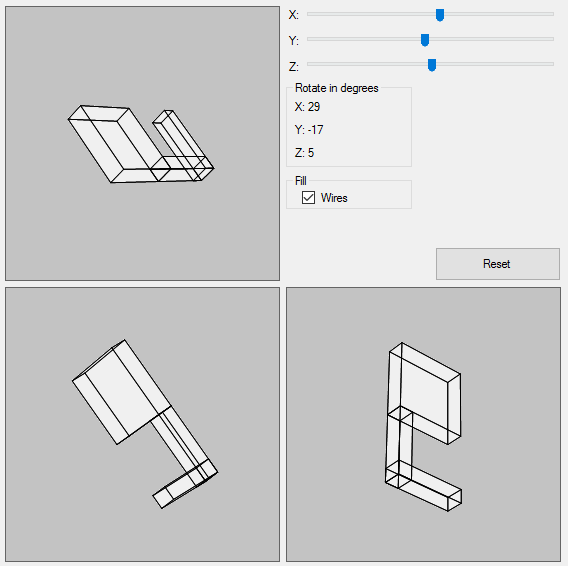
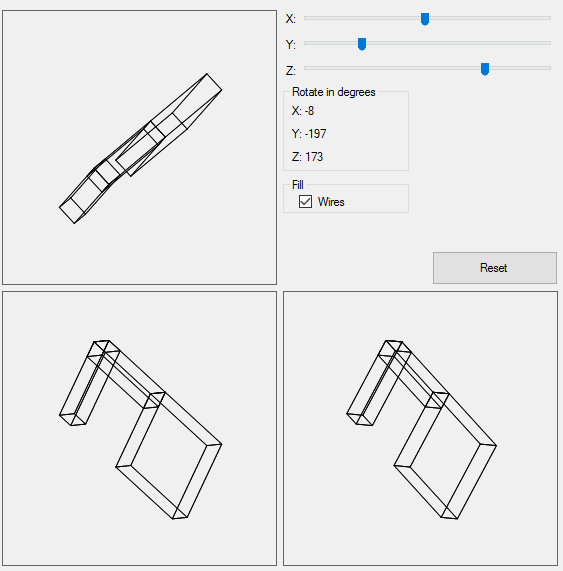
lab8 v1.8 update result

diff --git a/lab8/3DCube/Math3D.cs b/lab8/3DCube/Math3D.cs
@@ -154,7 +154,7 @@ namespace lab8
             private readonly Vector3D _cubeOrigin;
 
             private Face[] _faces;
-
+            private int window;
             private float _xRotation;
             private float _yRotation;
             private float _zRotation;
@@ -218,7 +218,7 @@ namespace lab8
                 bounds.Width += drawOrigin.X;
                 bounds.Height += drawOrigin.Y;
 
-                // Bitmap finalBmp = new Bitmap(bounds.Width, bounds.Height);
+              
                 var g = Graphics.FromImage(finalBmp);
 
                 g.SmoothingMode = SmoothingMode.AntiAlias;
@@ -279,7 +279,7 @@ namespace lab8
                 bounds.Width += drawOrigin.X;
                 bounds.Height += drawOrigin.Y;
 
-                var finalBmp = new Bitmap(bounds.Width, bounds.Height);
+                var finalBmp = new Bitmap(bounds.Width+10, bounds.Height+10);
                 var g = Graphics.FromImage(finalBmp);
 
                 g.SmoothingMode = SmoothingMode.AntiAlias;
@@ -323,6 +323,7 @@ namespace lab8
                         g.DrawLine(Pens.Black, _faces[i].Corners2D[2], _faces[i].Corners2D[3]);
                         g.DrawLine(Pens.Black, _faces[i].Corners2D[3], _faces[i].Corners2D[0]);
                     }
+                   
                 }
 
                 g.Dispose();
@@ -341,14 +342,14 @@ namespace lab8
             {
                 var returnPoint = new PointF();
 
-                var zoom = Screen.PrimaryScreen.Bounds.Width/1.5f;
+                var zoom = Screen.PrimaryScreen.Bounds.Width/1;
                 var tempCam = new Camera();
 
                 tempCam.Position.X = _cubeOrigin.X;
                 tempCam.Position.Y = _cubeOrigin.Y;
                 tempCam.Position.Z = _cubeOrigin.X*zoom/_cubeOrigin.X;
 
-                var zValue = -vec.Z - tempCam.Position.Z;
+                var zValue =/* -vec.Z*/ - tempCam.Position.Z;
 
                 returnPoint.X = (tempCam.Position.X - vec.X)/zValue*zoom;
                 returnPoint.Y = (tempCam.Position.Y - vec.Y)/zValue*zoom;
@@ -614,41 +615,45 @@ namespace lab8
 
             #region Initializers
 
-            public Cube(int side)
+            public Cube(int side, int window)
             {
                 Width = side;
+                this.window = window;
                 Height = side;
                 Depth = side;
                 _cubeOrigin = new Vector3D(Width/2, Height/2, Depth/2);
                 InitializeCube();
             }
 
-            public Cube(int side, Vector3D origin)
+            public Cube(int side, Vector3D origin, int window)
             {
                 Width = side;
                 Height = side;
                 Depth = side;
                 _cubeOrigin = origin;
+                this.window = window;
 
                 InitializeCube();
             }
 
-            public Cube(int width, int height, int depth)
+            public Cube(int width, int height, int depth, int window)
             {
                 Width = width;
                 Height = height;
                 Depth = depth;
+                this.window = window;
                 _cubeOrigin = new Vector3D(Width/2, Height/2, Depth/2);
 
                 InitializeCube();
             }
 
-            public Cube(int width, int height, int depth, Vector3D origin)
+            public Cube(int width, int height, int depth, Vector3D origin, int window)
             {
                 Width = width;
                 Height = height;
                 Depth = depth;
                 _cubeOrigin = origin;
+                this.window = window;
 
                 InitializeCube();
             }

diff --git a/lab8/3DCube/Form.cs b/lab8/3DCube/Form.cs
@@ -214,17 +214,17 @@ namespace lab8
         {
             _drawOrigin3 = _drawOrigin2 = _drawOrigin = new Point(pictureBox1.Width/2, pictureBox1.Height/2);
 
-            _mainCube1 = new Math3D.Cube(w, h/2, d, new Math3D.Vector3D(w/2, 0, d/2));
-            _mainCube12 = new Math3D.Cube(w/5, h/2, d, new Math3D.Vector3D(w/2, h/2, d/2));
-            _mainCube13 = new Math3D.Cube(w, h/10, d, new Math3D.Vector3D(w/2, h/2, d/2));
+            _mainCube1 = new Math3D.Cube(w, h/2, d, new Math3D.Vector3D(w/2, 0, d/2),1);
+            _mainCube12 = new Math3D.Cube(w/5, h/2, d, new Math3D.Vector3D(w/2, h/2, d/2),1);
+            _mainCube13 = new Math3D.Cube(w, h/10, d, new Math3D.Vector3D(w/2, h/2, d/2),1);
 
-            _mainCube2 = new Math3D.Cube(w, h/2, d, new Math3D.Vector3D(w/2, 0, d/2));
-            _mainCube22 = new Math3D.Cube(w/5, h/2, d, new Math3D.Vector3D(w/2, h/2, d/2));
-            _mainCube23 = new Math3D.Cube(w, h/10, d, new Math3D.Vector3D(w/2, h/2, d/2));
+            _mainCube2 = new Math3D.Cube(w, h/2, d, new Math3D.Vector3D(w/2, 0, d/2),2);
+            _mainCube22 = new Math3D.Cube(w/5, h/2, d, new Math3D.Vector3D(w/2, h/2, d/2),2);
+            _mainCube23 = new Math3D.Cube(w, h/10, d, new Math3D.Vector3D(w/2, h/2, d/2),2);
 
-            _mainCube3 = new Math3D.Cube(w, h/2, d, new Math3D.Vector3D(w/2, 0, d/2));
-            _mainCube32 = new Math3D.Cube(w/5, h/2, d, new Math3D.Vector3D(w/2, h/2, d/2));
-            _mainCube33 = new Math3D.Cube(w, h/10, d, new Math3D.Vector3D(w/2, h/2, d/2));
+            _mainCube3 = new Math3D.Cube(w, h/2, d, new Math3D.Vector3D(w/2, 0, d/2),3);
+            _mainCube32 = new Math3D.Cube(w/5, h/2, d, new Math3D.Vector3D(w/2, h/2, d/2),3);
+            _mainCube33 = new Math3D.Cube(w, h/10, d, new Math3D.Vector3D(w/2, h/2, d/2),3);
         }
 
         private void Render()
@@ -279,7 +279,7 @@ namespace lab8
 
         private void FormRender_Load(object sender, EventArgs e)
         {
-            var size = 160;
+            var size = 180;
             SetCharSize(size);
             GenerateCharB(_w, _h, _d);
         }
